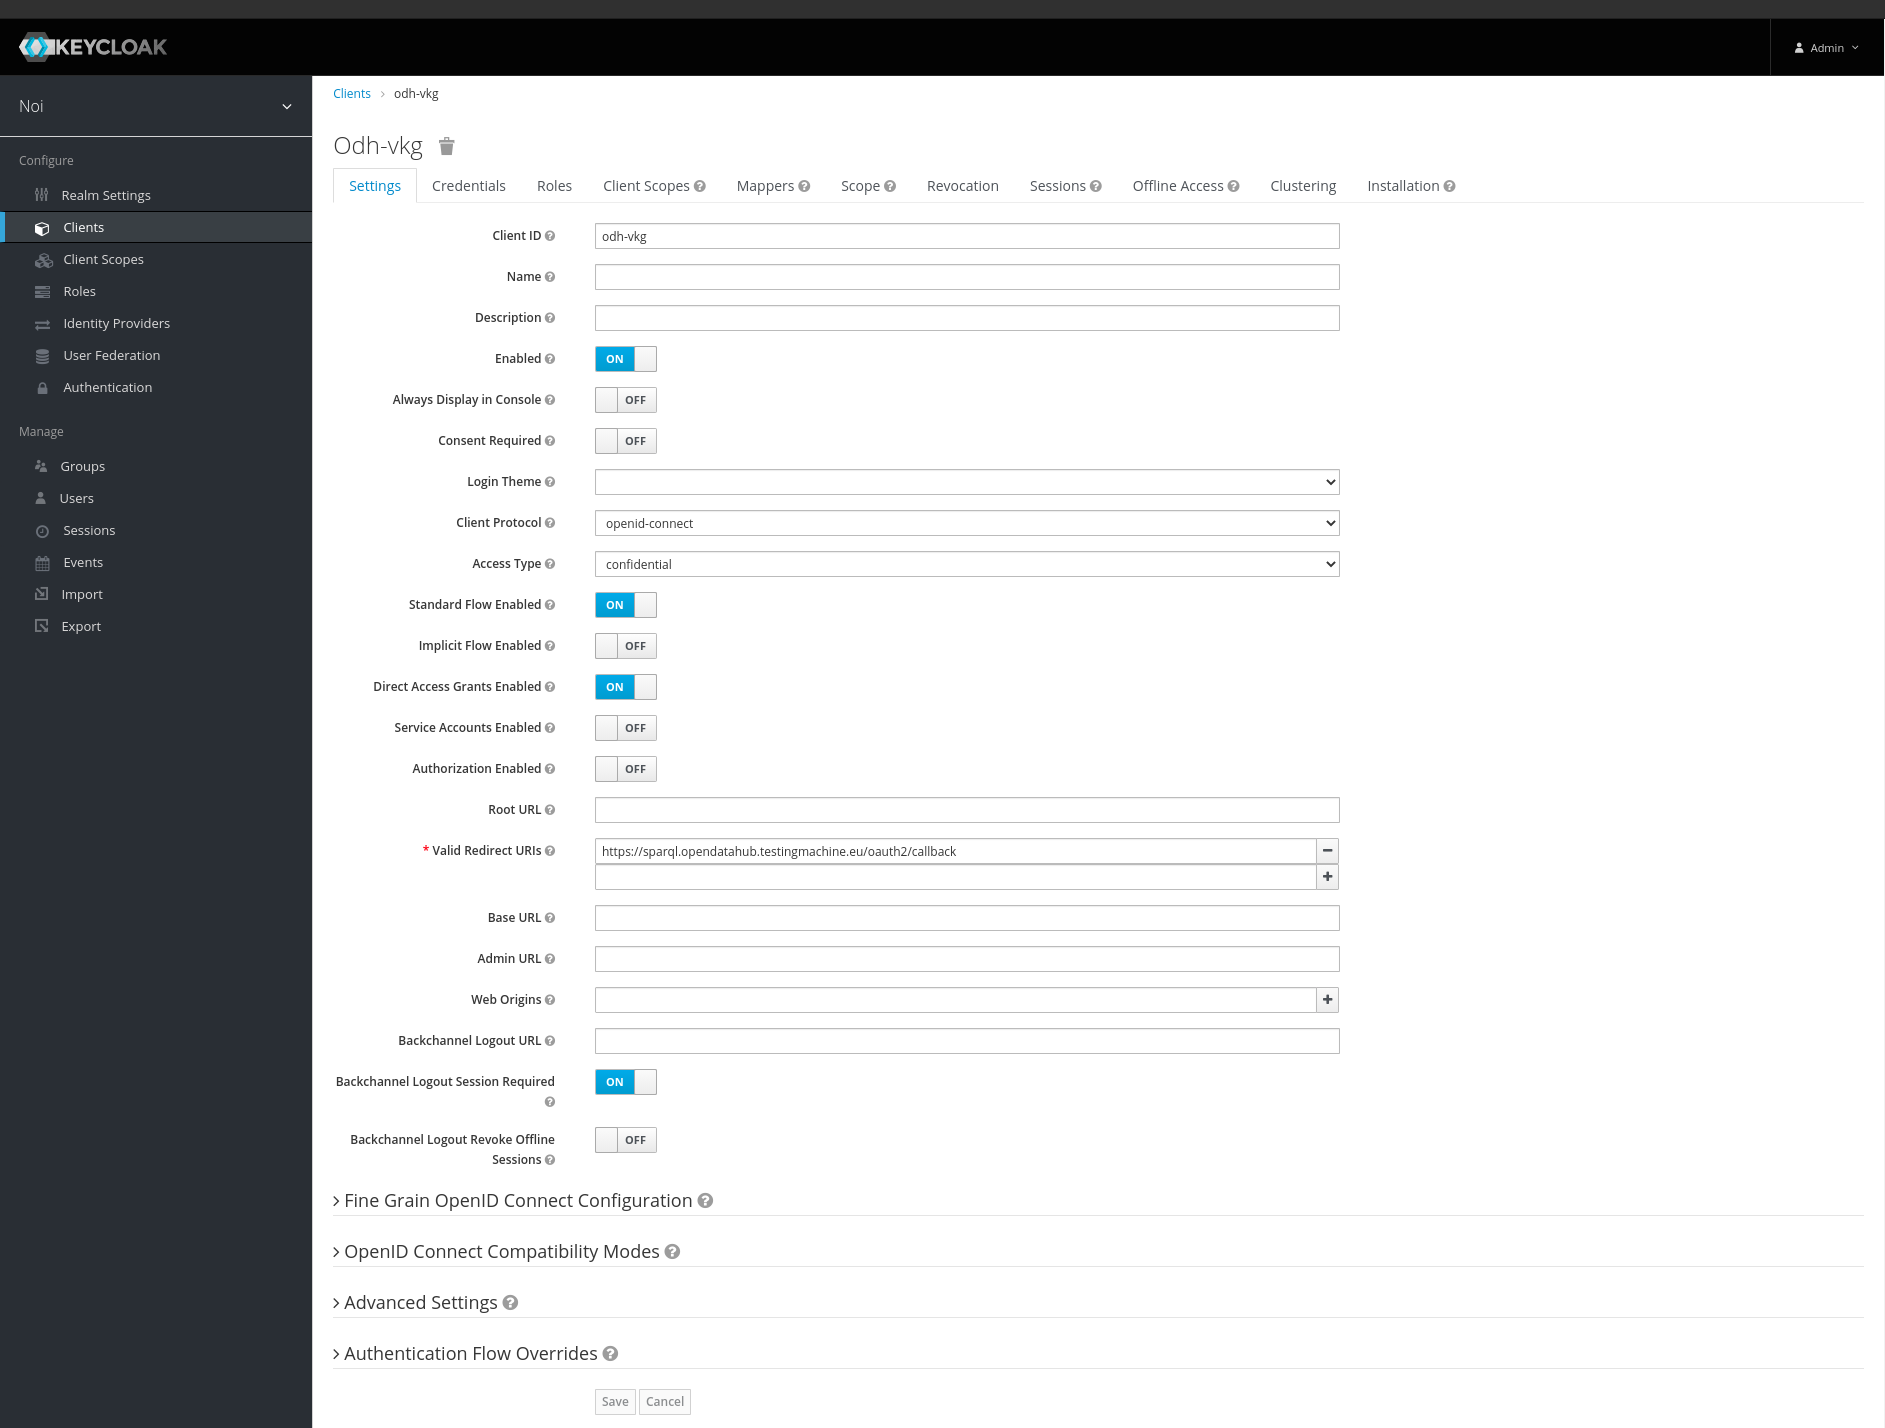
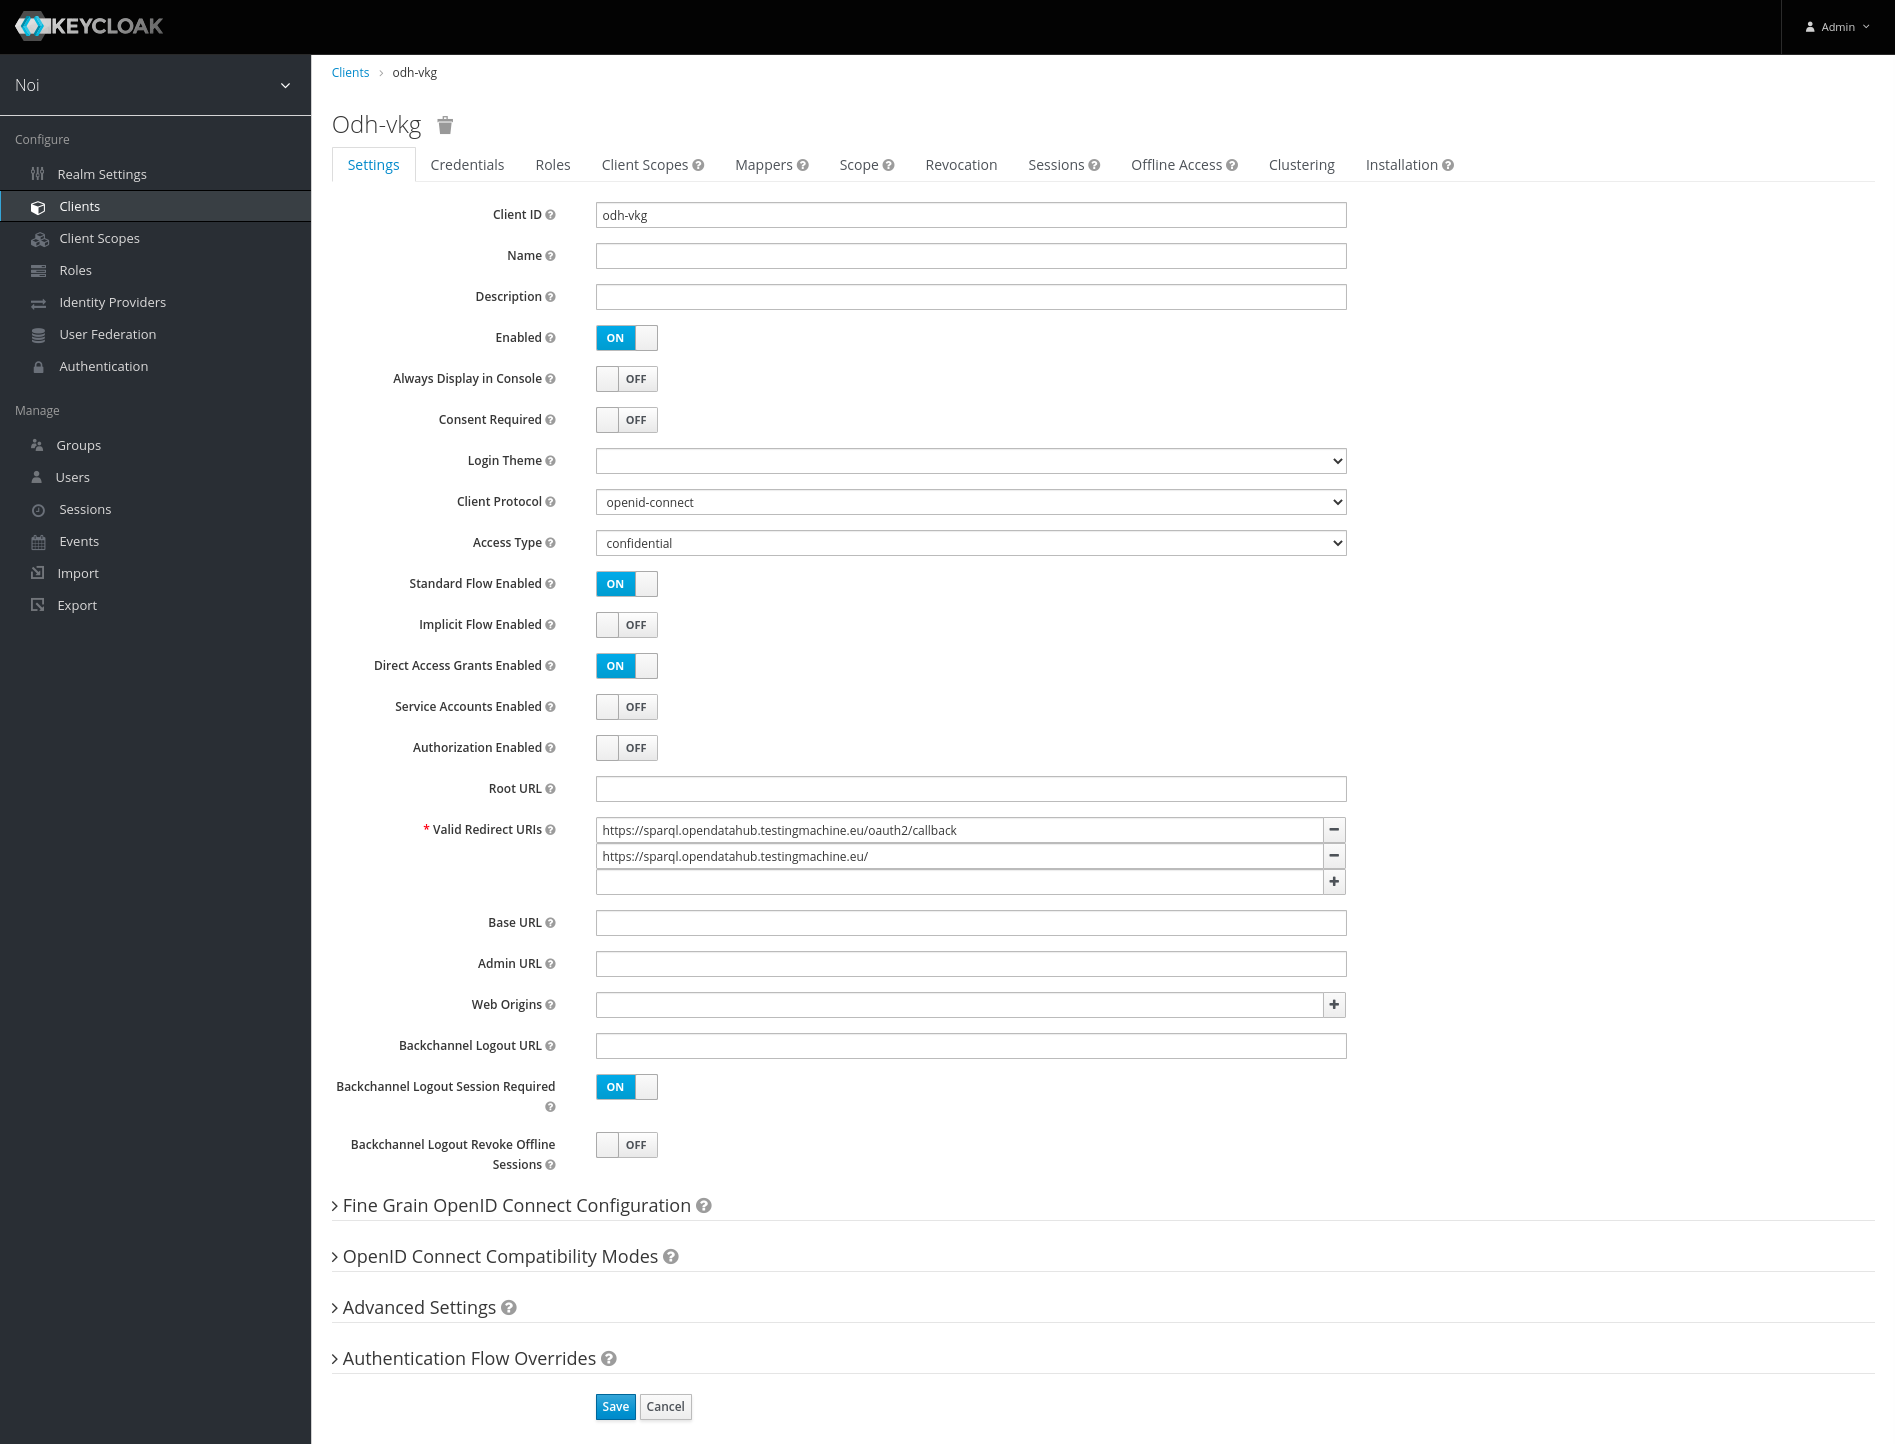
Add new section to authentication documentation

diff --git a/docs/authentication.md b/docs/authentication.md
@@ -4,13 +4,13 @@
 
 Table of contents
 
-- [Authentication](#authentication)
-	- [Keycloak configuration](#keycloak-configuration)
-	- [Authentication proxy configuration](#authentication-proxy-configuration)
+-   [Authentication](#authentication)
+    -   [Keycloak configuration](#keycloak-configuration)
+    -   [Authentication proxy configuration](#authentication-proxy-configuration)
 
 ## Keycloak configuration
 
-In your realm of choice, create a new client with **Access Type** `confidential` and **Valid Redirect URIs** `https://<odh-vkg endpoint>/oauth2/callback`. Take note of the **Secret** in the Credentials tab of the client.
+In your realm of choice, create a new client with **Access Type** `confidential`. Add `https://<odh-vkg endpoint>` and `https://<odh-vkg endpoint>/oauth2/callback` as **Valid Redirect URIs**. Take note of the **Secret** in the Credentials tab of the client.
 
 ![Keycloak client configuration](images/client-configuration.png)
 
@@ -24,14 +24,19 @@ Last, decide which groups will have access to the `/restricted` endpoint and not
 | :------------------------------------------------------------------------------------------------------------------------------------------------------------------------------------------------------------------ |
 | Internally, the proxy authenticates users via their email address, so if the user doesn't have an associated email address the proxy will panic and return `500`. This is a core logic which can't be reconfigured. |
 
+| :grey_question: How to configure session idle timeout in Keycloak 12 timeout                                                                                                                                                                                                                                                                                                                                                                                                                                                                                       |
+| :----------------------------------------------------------------------------------------------------------------------------------------------------------------------------------------------------------------------------------------------------------------------------------------------------------------------------------------------------------------------------------------------------------------------------------------------------------------------------------------------------------------------------------------------------------------- |
+| The session idle timeout is configured per realm and it's global for every client in the realm. Therefore changing the session idle timeout will change it for every client in the realm. To change it, navigate to the `Tokens` tab of the `Realm Settings` page and change the `SSO Session Idle` parameter. The `Access Token Lifespan` field must be shorter than the new idle timeout. Notice that Keycloak keeps a grace period of two minutes before expiring a token, therefore the session will actually be expired after `SSO Session Idle` + 2 minutes. |
+
 ## Authentication proxy configuration
 
 The authentication proxy is local to the `odh-vkg` deployment and is therefore configured via environment variables provided by the deployment stack. There are five environment variables, four of which are Keycloak-specific, while the last one is used for securing authentication sessions. All of these variables must be configured correctly for the proxy to function.
 
-| Env variable               | Description                                                                                                                                                                                                      |
-| -------------------------- | ---------------------------------------------------------------------------------------------------------------------------------------------------------------------------------------------------------------- |
-| `KEYCLOAK_REALM_URL`       | URL of the Keycloak realm. In default installations of Keycloak is `https://<keycloak endpoint>/auth/reals/<realm>`.                                                                                             |
-| `KEYCLOAK_CLIENT_ID`       | ID of the client created during Keycloak configuration.                                                                                                                                                          |
-| `KEYCLOAK_CLIENT_SECRET`   | The **Secret** in the Credential tab of the client.                                                                                                                                                              |
+| Env variable               | Description                                                                                                                                                                                                                                  |
+| -------------------------- | -------------------------------------------------------------------------------------------------------------------------------------------------------------------------------------------------------------------------------------------- |
+| `KEYCLOAK_REALM_URL`       | URL of the Keycloak realm. In default installations of Keycloak is `https://<keycloak endpoint>/auth/reals/<realm>`.                                                                                                                         |
+| `KEYCLOAK_DOMAIN_NAME`     | Domain name of the Keycloak server. Equivalent to `<keycloak endpoint>` above.                                                                                                                                                               |
+| `KEYCLOAK_CLIENT_ID`       | ID of the client created during Keycloak configuration.                                                                                                                                                                                      |
+| `KEYCLOAK_CLIENT_SECRET`   | The **Secret** in the Credential tab of the client.                                                                                                                                                                                          |
 | `KEYCLOAK_ALLOWED_GROUPS`  | List of comma-separated Keycloak groups which should have access to the `/restricted` endpoint. Keycloak groups are implemented as a tree, so you must specify their full path here instead of only their names. Example: `/VKG Full Access` |
-| `AUTH_PROXY_COOKIE_SECRET` | Key which is used by the proxy to secure cookies. Must be 16, 32 or 64 strong random bytes, optionally base64 encoded. Changing this value will invalidate all sessions, requiring re-authentication.            |
+| `AUTH_PROXY_COOKIE_SECRET` | Key which is used by the proxy to secure cookies. Must be 16, 32 or 64 strong random bytes, optionally base64 encoded. Changing this value will invalidate all sessions, requiring re-authentication.                                        |
